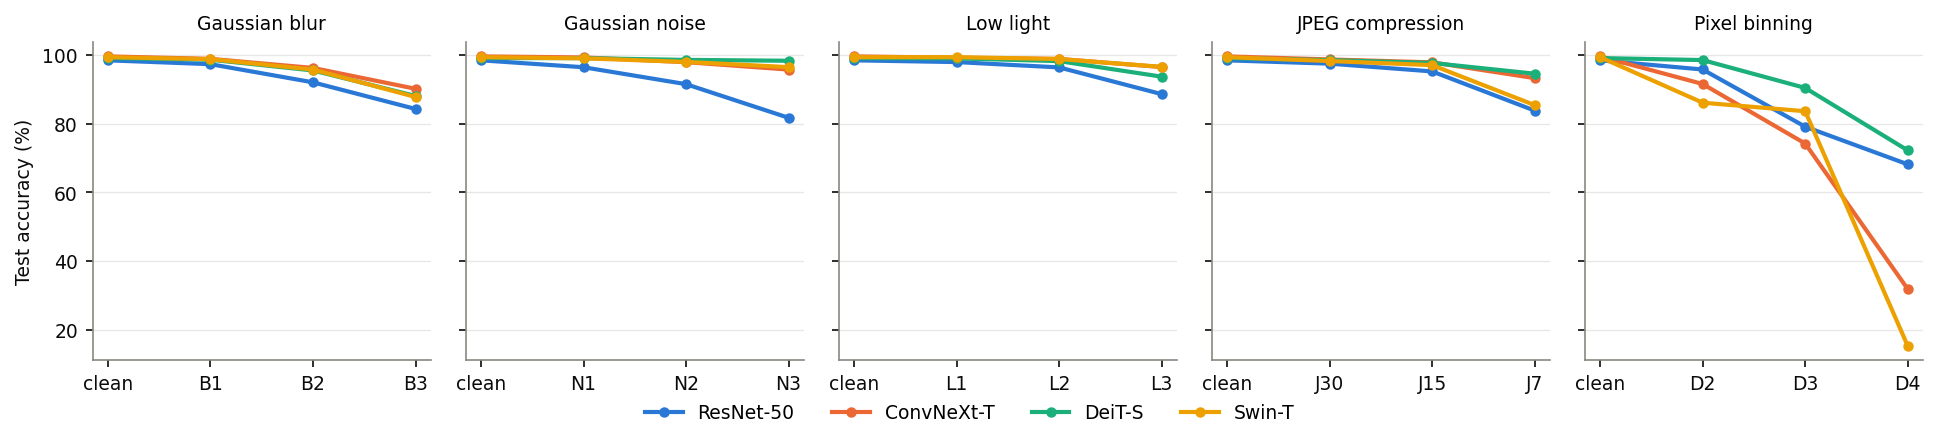
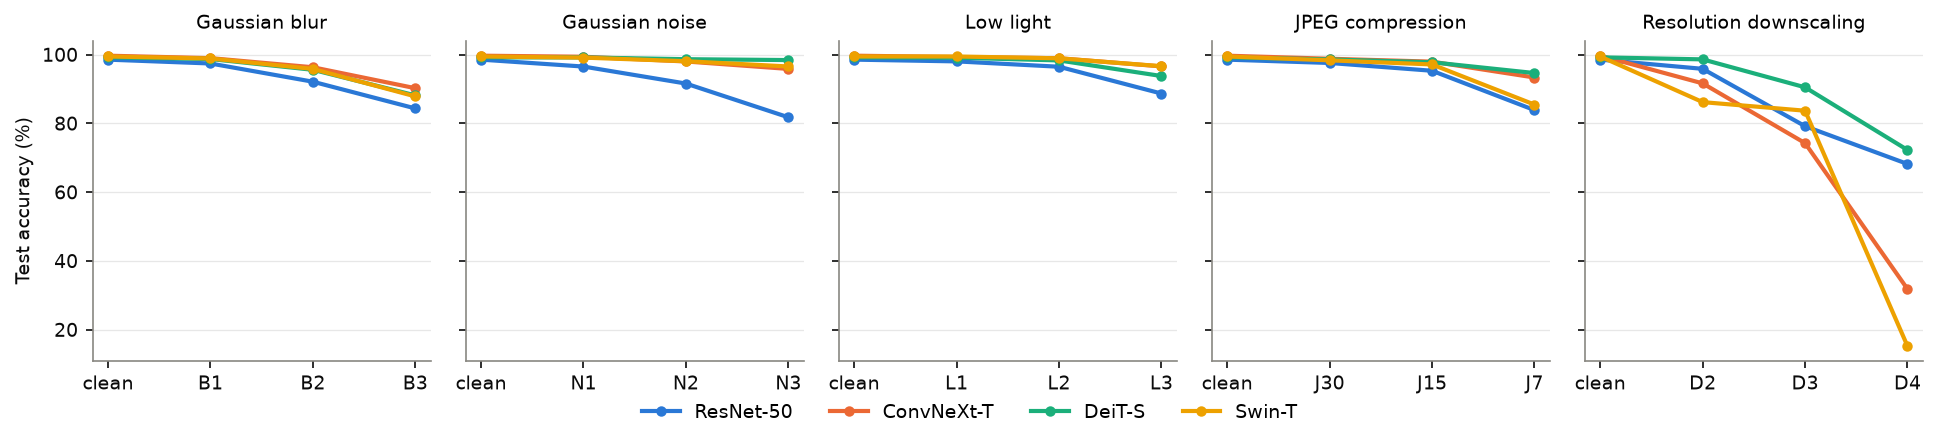
Rename pixel binning to resolution downscaling in tables and figures

diff --git a/reports/tables/accuracy_vs_severity.tex b/reports/tables/accuracy_vs_severity.tex
@@ -19,9 +19,9 @@ JPEG compression (J30-J7) & ResNet-50 & 98.55 & 97.58 & 95.31 & 83.87 & 92.25 \\
 JPEG compression (J30-J7) & ConvNeXt-T & 99.69 & 98.80 & 97.96 & 93.35 & 96.70 \\
 JPEG compression (J30-J7) & DeiT-S & 99.21 & 98.60 & 97.78 & 94.65 & 97.01 \\
 JPEG compression (J30-J7) & Swin-T & 99.46 & 98.34 & 97.15 & 85.48 & 93.66 \\
-Pixel binning (D2-D4) & ResNet-50 & 98.55 & 95.87 & 79.18 & 68.20 & 81.09 \\
-Pixel binning (D2-D4) & ConvNeXt-T & 99.69 & 91.64 & 74.27 & 31.82 & 65.91 \\
-Pixel binning (D2-D4) & DeiT-S & 99.21 & 98.62 & 90.50 & 72.28 & 87.13 \\
-Pixel binning (D2-D4) & Swin-T & 99.46 & 86.19 & 83.69 & 15.24 & 61.71 \\
+Resolution downscaling (D2-D4) & ResNet-50 & 98.55 & 95.87 & 79.18 & 68.20 & 81.09 \\
+Resolution downscaling (D2-D4) & ConvNeXt-T & 99.69 & 91.64 & 74.27 & 31.82 & 65.91 \\
+Resolution downscaling (D2-D4) & DeiT-S & 99.21 & 98.62 & 90.50 & 72.28 & 87.13 \\
+Resolution downscaling (D2-D4) & Swin-T & 99.46 & 86.19 & 83.69 & 15.24 & 61.71 \\
 \bottomrule
 \end{tabular}

diff --git a/analysis/make_report.py b/analysis/make_report.py
@@ -45,7 +45,7 @@ MODEL_LABEL = {'resnet50': 'ResNet-50', 'convnext_tiny': 'ConvNeXt-T', 'deit_sma
 MODEL_COLOR = {'resnet50': '#2a78d6', 'convnext_tiny': '#eb6834', 'deit_small': '#1baf7a',
                'swin_tiny': '#eda100', 'vgg16': '#e87ba4'}
 DEG_LABEL = {'gaussian_blur': 'Gaussian blur', 'gaussian_noise': 'Gaussian noise', 'low_light': 'Low light',
-             'jpeg': 'JPEG compression', 'pixelate': 'Pixel binning'}
+             'jpeg': 'JPEG compression', 'pixelate': 'Resolution downscaling'}
 SEQ = LinearSegmentedColormap.from_list('seq', ['#fcfcfb', '#9ec5f4', '#2a78d6', '#104281'])
 INK, MUTED = '#0b0b0b', '#898781'
 

diff --git a/reports/tables/corruption_error.tex b/reports/tables/corruption_error.tex
@@ -1,7 +1,7 @@
 % generated by analysis/make_report.py -- do not edit by hand
 \begin{tabular}{lrrrrrr}
 \toprule
-Model & Gaussian blur & Gaussian noise & Low light & JPEG compression & Pixel binning & mCE \\
+Model & Gaussian blur & Gaussian noise & Low light & JPEG compression & Resolution downscaling & mCE \\
 \midrule
 ResNet-50 & 100.0 & 100.0 & 100.0 & 100.0 & 100.0 & 100.0 \\
 ConvNeXt-T & \textbf{55.4} & 22.4 & 30.7 & 42.5 & 180.2 & 66.2 \\

diff --git a/reports/tables/retention_csp.tex b/reports/tables/retention_csp.tex
@@ -1,7 +1,7 @@
 % generated by analysis/make_report.py -- do not edit by hand
 \begin{tabular}{lrrrrr}
 \toprule
-Model & Gaussian blur & Gaussian noise & Low light & JPEG compression & Pixel binning \\
+Model & Gaussian blur & Gaussian noise & Low light & JPEG compression & Resolution downscaling \\
 \midrule
 ResNet-50 & 92.6 (3) & 91.3 (3) & 95.8 (3) & 93.6 (3) & 82.3 (2) \\
 ConvNeXt-T & 95.5 (-) & 98.0 (-) & 98.6 (-) & 97.0 (-) & 66.1 (2) \\

diff --git a/reports/tables/accuracy_per_degradation.tex b/reports/tables/accuracy_per_degradation.tex
@@ -1,7 +1,7 @@
 % generated by analysis/make_report.py -- do not edit by hand
 \begin{tabular}{lrrrrr}
 \toprule
-Model & Gaussian blur & Gaussian noise & Low light & JPEG compression & Pixel binning \\
+Model & Gaussian blur & Gaussian noise & Low light & JPEG compression & Resolution downscaling \\
 \midrule
 ResNet-50 & 91.30 & 89.97 & 94.40 & 92.25 & 81.09 \\
 ConvNeXt-T & \textbf{95.18} & 97.75 & 98.28 & 96.70 & 65.91 \\

diff --git a/analysis/kaggle_results.py b/analysis/kaggle_results.py
@@ -14,7 +14,7 @@ Load a results folder produced by the Kaggle notebook (Part 1).
     run.history('resnet50')                  # per-epoch validation loss / accuracy
 
 Condition codes: clean, B1-B3 (Gaussian blur), N1-N3 (Gaussian noise), L1-L3 (low light),
-J30/J15/J7 (JPEG quality), D2-D4 (pixel binning).
+J30/J15/J7 (JPEG quality), D2-D4 (resolution downscaling).
 Needs: numpy, pandas.
 """
 import json

diff --git a/reports/tables/accuracy_vs_severity.md b/reports/tables/accuracy_vs_severity.md
@@ -16,7 +16,7 @@
 | JPEG compression (J30-J7) | ConvNeXt-T | 99.69 | 98.80 | 97.96 | 93.35 | 96.70 |
 | JPEG compression (J30-J7) | DeiT-S | 99.21 | 98.60 | 97.78 | 94.65 | 97.01 |
 | JPEG compression (J30-J7) | Swin-T | 99.46 | 98.34 | 97.15 | 85.48 | 93.66 |
-| Pixel binning (D2-D4) | ResNet-50 | 98.55 | 95.87 | 79.18 | 68.20 | 81.09 |
-| Pixel binning (D2-D4) | ConvNeXt-T | 99.69 | 91.64 | 74.27 | 31.82 | 65.91 |
-| Pixel binning (D2-D4) | DeiT-S | 99.21 | 98.62 | 90.50 | 72.28 | 87.13 |
-| Pixel binning (D2-D4) | Swin-T | 99.46 | 86.19 | 83.69 | 15.24 | 61.71 |
+| Resolution downscaling (D2-D4) | ResNet-50 | 98.55 | 95.87 | 79.18 | 68.20 | 81.09 |
+| Resolution downscaling (D2-D4) | ConvNeXt-T | 99.69 | 91.64 | 74.27 | 31.82 | 65.91 |
+| Resolution downscaling (D2-D4) | DeiT-S | 99.21 | 98.62 | 90.50 | 72.28 | 87.13 |
+| Resolution downscaling (D2-D4) | Swin-T | 99.46 | 86.19 | 83.69 | 15.24 | 61.71 |

diff --git a/reports/tables/corruption_error.md b/reports/tables/corruption_error.md
@@ -1,4 +1,4 @@
-| Model | Gaussian blur | Gaussian noise | Low light | JPEG compression | Pixel binning | mCE |
+| Model | Gaussian blur | Gaussian noise | Low light | JPEG compression | Resolution downscaling | mCE |
 |---|---|---|---|---|---|---|
 | ResNet-50 | 100.0 | 100.0 | 100.0 | 100.0 | 100.0 | 100.0 |
 | ConvNeXt-T | **55.4** | 22.4 | 30.7 | 42.5 | 180.2 | 66.2 |

diff --git a/reports/tables/retention_csp.md b/reports/tables/retention_csp.md
@@ -1,4 +1,4 @@
-| Model | Gaussian blur | Gaussian noise | Low light | JPEG compression | Pixel binning |
+| Model | Gaussian blur | Gaussian noise | Low light | JPEG compression | Resolution downscaling |
 |---|---|---|---|---|---|
 | ResNet-50 | 92.6 (3) | 91.3 (3) | 95.8 (3) | 93.6 (3) | 82.3 (2) |
 | ConvNeXt-T | 95.5 (-) | 98.0 (-) | 98.6 (-) | 97.0 (-) | 66.1 (2) |

diff --git a/reports/tables/accuracy_per_degradation.md b/reports/tables/accuracy_per_degradation.md
@@ -1,4 +1,4 @@
-| Model | Gaussian blur | Gaussian noise | Low light | JPEG compression | Pixel binning |
+| Model | Gaussian blur | Gaussian noise | Low light | JPEG compression | Resolution downscaling |
 |---|---|---|---|---|---|
 | ResNet-50 | 91.30 | 89.97 | 94.40 | 92.25 | 81.09 |
 | ConvNeXt-T | **95.18** | 97.75 | 98.28 | 96.70 | 65.91 |
